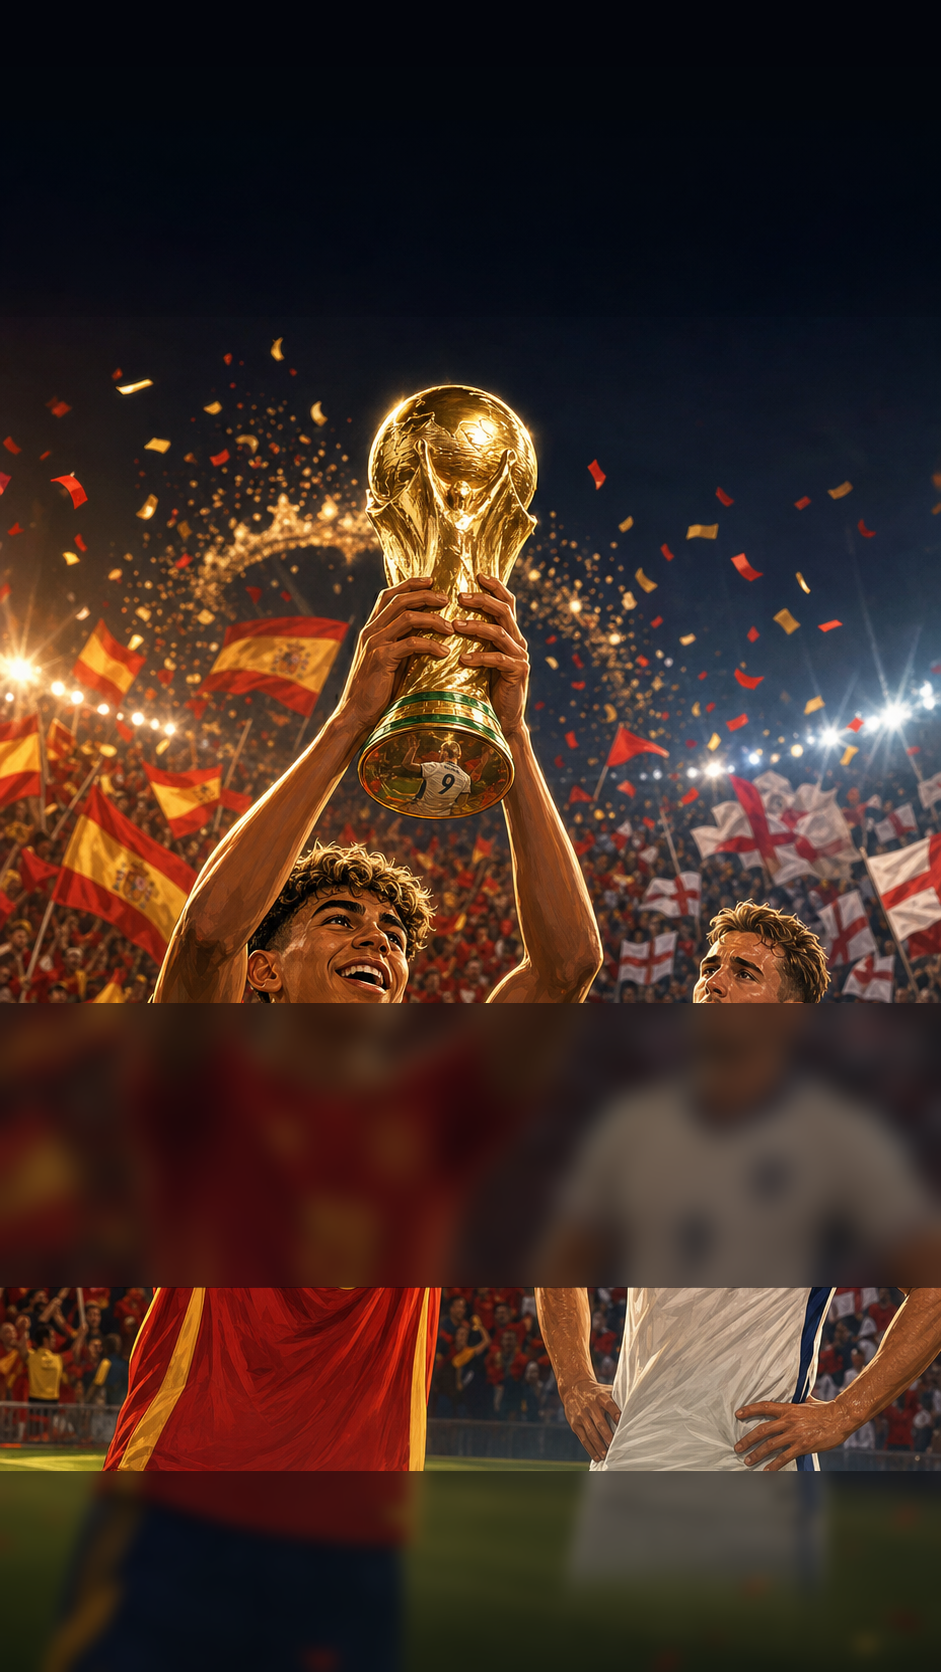
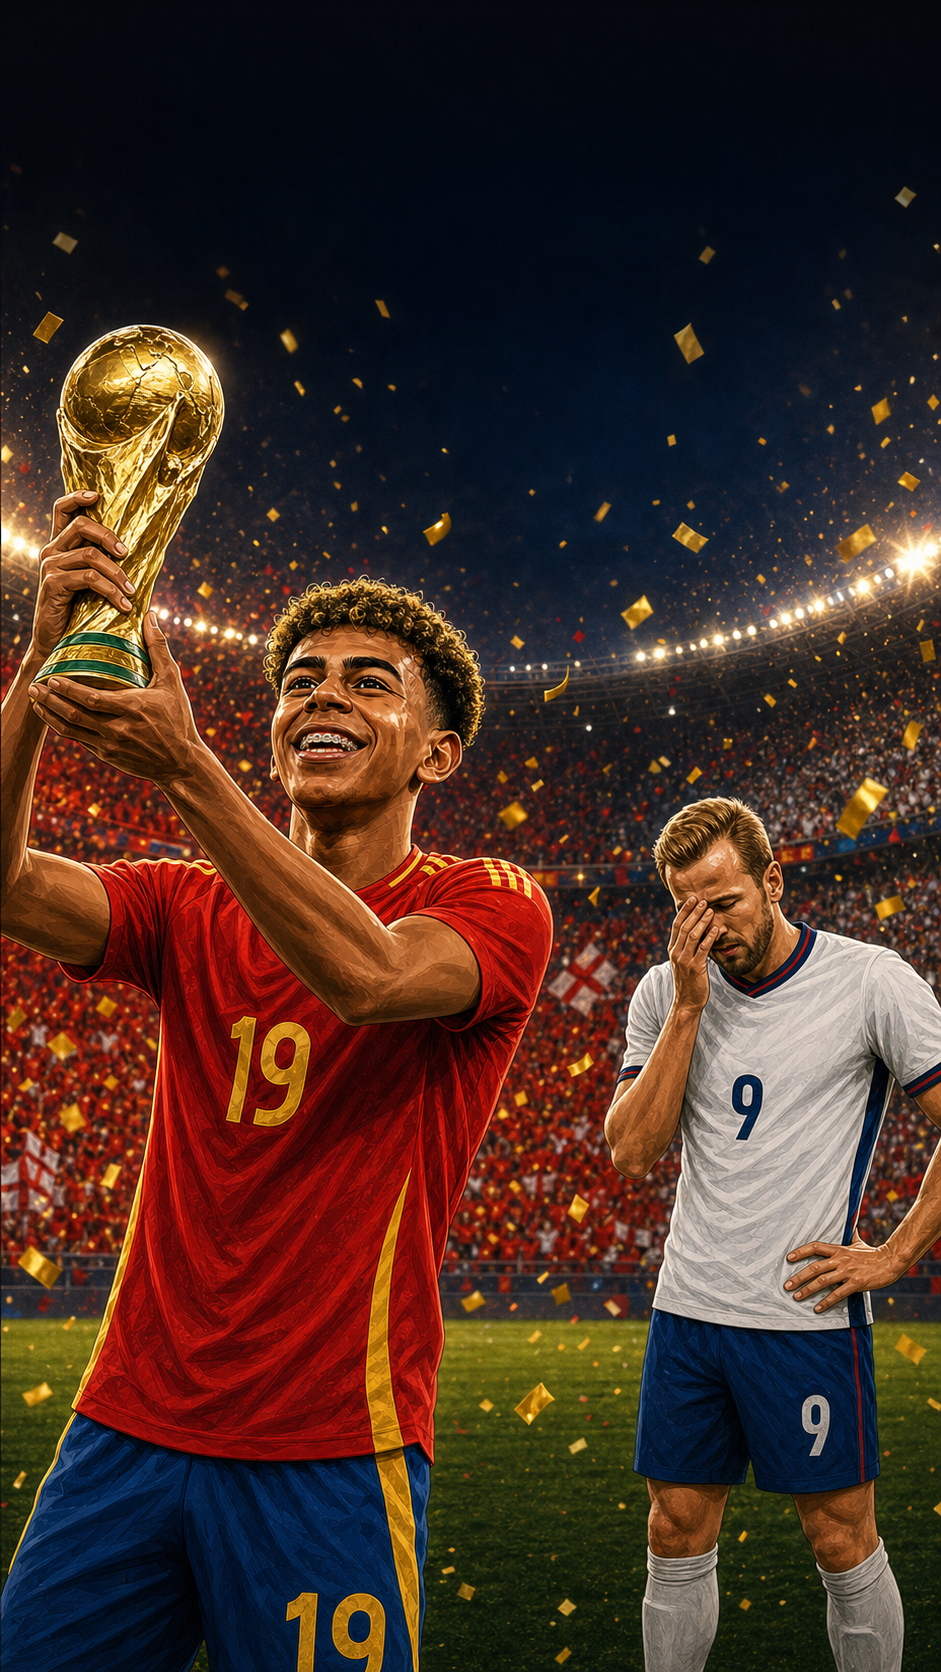
story: replace future scenario bases with approved players

diff --git a/.codex/skills/friendlybet-world-cup-story-images/SKILL.md b/.codex/skills/friendlybet-world-cup-story-images/SKILL.md
@@ -38,6 +38,7 @@ Create premium share-story assets for FriendlyBet that look like the approved Wo
 - Do not let the watermark enter the caption safe zone, cover faces, or sit low enough that WhatsApp previews crop it.
 - Do not request or accept photorealistic player portraits. The target is a clearly cartooned version of the real player: similar enough to identify, stylized enough to avoid looking like an exact photo.
 - Never create or accept a story image with a generic, invented, anonymous, unnamed, or placeholder footballer. Every visible player must be a named real footballer whose team, shirt number, and match relevance have been verified. If no named player can be verified, stop and require a non-player design or manual review instead of using a generic player.
+- If an image-generation tool rejects a named-player or public-figure prompt, treat that generation route as blocked. Do not silently rewrite the prompt to fictional players, generic stars, anonymous athletes, or lower-standard artwork. Use approved local named-player assets as references/compositing sources, get an explicitly approved alternate generation path, or stop for manual review.
 - Never downgrade a normal finished-match Story to a non-player/flags/stadium-only design merely because a post-match lineup PDF is unavailable. FriendlyBet's established default for a match that needs a Story is: two biggest/approved stars, real national kits, real shirt numbers, result-aware title/caption, and pool-aware copy.
 - Do not treat "we do not have the official post-match lineup PDF" as a blocker by itself. Use the existing story workflow and local sources first: `STAR_PROFILES`, `story-assets/world-cup-squad-shirt-numbers.json`, `Codex\SquadLists-English.pdf` when present, and existing approved assets/prompts.
 - For knockout matches, the story is qualification/advancement, not only the final score. The baked English title should use `QUALIFIES!` for the team that goes through, especially when the score is level and the match is decided by penalties or another tiebreaker.
@@ -165,6 +166,7 @@ Before shipping:
 
 - Confirm every visible shirt number against `SquadLists-English.pdf` when that PDF is available, including cases where the image number identifies a different valid player than the default profile.
 - Confirm every visible player is a named real footballer verified from the official match post-summary PDF when available; fail the story if any prompt or asset uses a generic/anonymous player, `biggest current star`, `current star`, `#current`, or a placeholder instead of a verified name and shirt number.
+- Confirm any image-tool safety refusal did not become a hidden standards downgrade. If the final asset came from a fallback route, record the route and prove the visible players still come from named, verified, approved sources.
 - Fail any production Story whose PNG is below the production poster threshold, currently 500KB. That threshold is not a beauty guarantee, but it catches the known flat local placeholder class that reached production on July 1, 2026. Never lower it to make an emergency automation pass; remove or hide the bad Story instead.
 - For knockout stories, confirm the baked title communicates advancement with `QUALIFIES!`; when a tied knockout score is resolved by penalties or another tiebreaker, confirm the qualifying player is visibly happy and the eliminated player is visibly sad/disappointed.
 - Create a contact sheet of all story images with the caption safe-zone rectangle overlaid.

diff --git a/.codex/company/playbooks/quality-gates.md b/.codex/company/playbooks/quality-gates.md
@@ -44,6 +44,7 @@ Use this before the CEO or any department calls significant work done.
 10. Production truth: for any bug Eyal can see in the live app, completion requires a cache-busted live URL/public-data check after push/deploy, or an explicit statement that production is still stale. A local implementation, passing local tests, a commit, or a push is not completion unless Eyal explicitly requested local-only work. Valid closure states are live-verified; pushed/deploying with the exact unverified layer and next proof; or blocked with the exact missing permission/external state after trying the safe release path.
 11. Content uniqueness: current Pundit, banter, story, and share copy must pass a structural duplicate check across the recent visible window, not only a human skim.
 11a. Story visual quality: public Story feeds must not reference placeholder-class artwork. For World Cup Stories, every referenced production PNG must meet the current poster threshold and the approved visual concept; low-byte local fallback cards, flat geometric/team-name-only posters, or abstract field-line designs are blockers for Story publication. They are warning-level content incidents only because they must not block scoring/results, but they must be removed from the visible feed before the content incident is closed.
+11a1. Story image fallback integrity: image-tool safety refusals, model limits, time pressure, or resource discipline must not weaken a Story skill non-negotiable. If a named-player/public-figure generation route is blocked, the agent must use approved local named-player references/composites, get explicit approval for an alternate generation path, or stop for manual review. Shipping fictional, anonymous, placeholder, or generic-player artwork fails this gate.
 11b. Pundit phase-state fit: current Pundit, dashboard banter, and pool-specific client-generated copy must match the user's actual tournament phase. After the group stage is complete and knockout play has begun, copy must not frame members as leaving the group stage or present group-completion transition lines as the current story. Run the relevant Pundit/client staleness tests for app-code copy, not only feed validators for `public-data/pundit.json`.
 12. Control-plane hygiene: repeated GitHub Actions failure emails, Vercel preview comments, or deployment-status emails are release incidents during live tournament operations. Verify open PRs, recent workflow failures, Vercel commit status, and whether `vercel.json` keeps GitHub comments silent before calling the control plane stable.
 12a. Alert policy: live-match automation must emit typed outcomes (`green`, `warning`, `critical`) and consolidate repeated warnings into one incident per match window. Content-only or warning-only fallback use must not create critical user-risk alerts.

diff --git a/.codex/company/agents/ai-operations-coach.md b/.codex/company/agents/ai-operations-coach.md
@@ -10,6 +10,7 @@ Bias:
 - Turn repeated mistakes into specific memory, playbook, or skill changes.
 - When production behavior is disputed, verify the live deployed artifact directly before trusting generated files, local scripts, or assumptions about deployment.
 - Resource discipline must preserve senior judgment: cheap, fast, and concise are wins only when they do not create shallow reasoning or repeated correction loops.
+- If an AI tool refuses or limits a domain-required output, do not turn that refusal into a standards downgrade. Use an approved fallback route, ask for explicit approval when the fallback changes model/path/risk, or stop and report the blocker.
 
 Produces:
 - Verification plan
